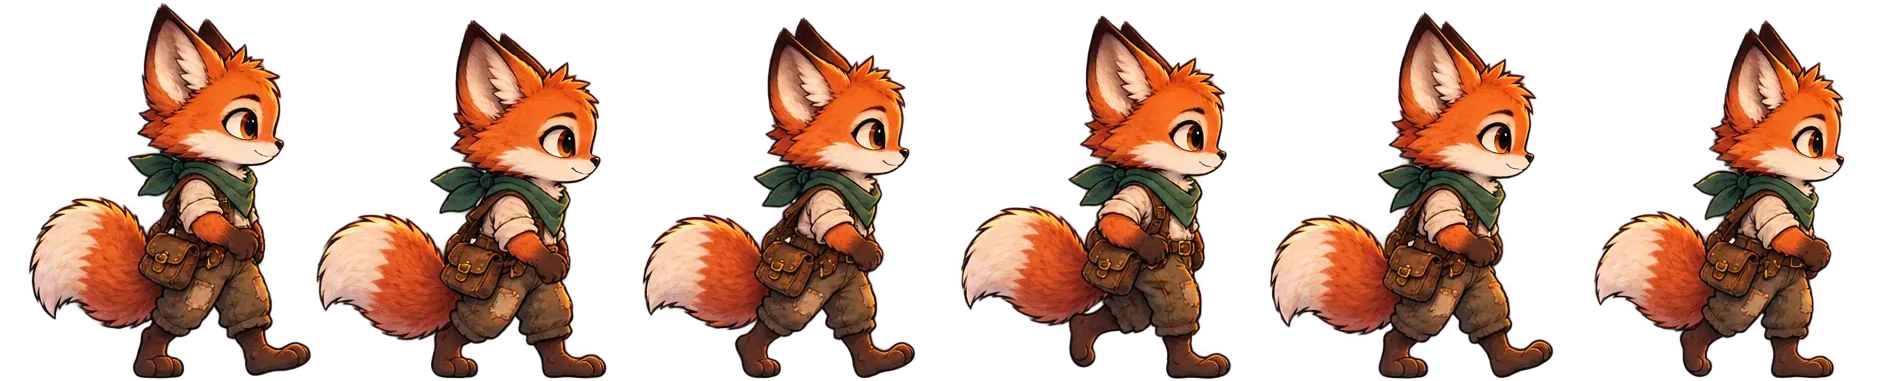
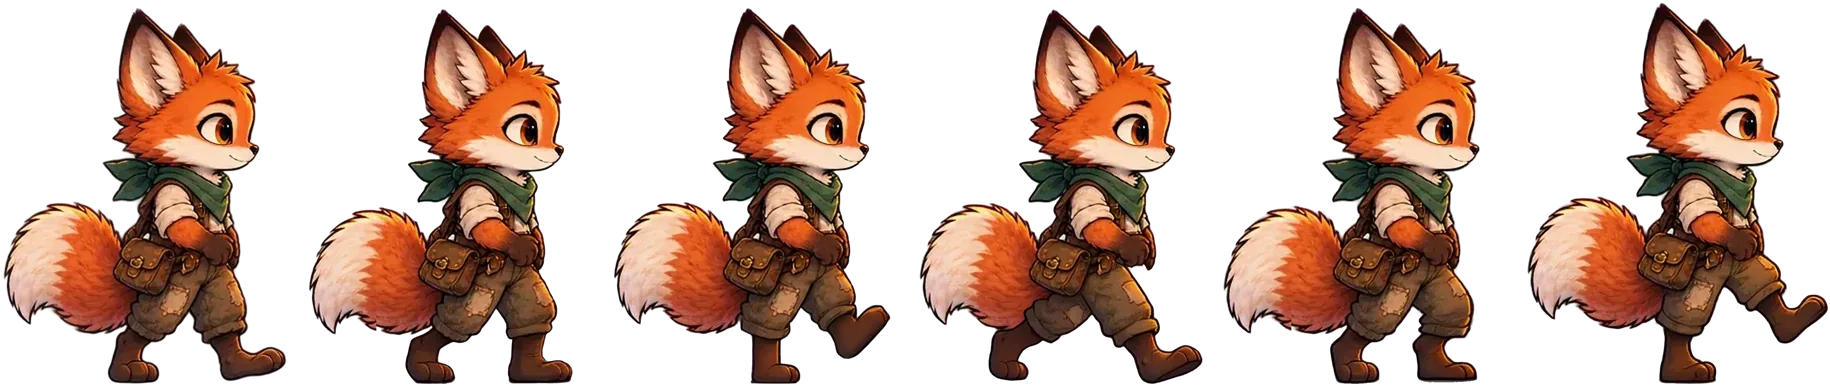
Rift of Reason: ravens and foxes walk without bobbing (#163, art slice D)
Rebuilt the raven-girl, raven-boy, fox-boy and fox-girl walk sheets from
their shipped art, by the slice A method: one shipped frame is the anchor,
the other five are qwen21_edit "change only its legs and feet/boots" edits,
and the two down frames swing the shawl, tail feathers or tail on the CPU
(swing_part.py). Measured on the built webp:

- head bob (head_track.py): 6.8/5.9/5.6/5.1 % -> 2.3/1.9/1.6/1.3 %,
  head scale 1.00 on every frame, head x drift <= 2 px
- centre drift (walk_audit.py): 3.8/3.1/10.5/10.4 px -> 0.7/0.7/1.1/1.4 px
- ground row within 1 px

- raven-girl anchors on shipped frame 3 (frame 1's shawl and head differ
  from the rest); the others keep frame 1.
- New tools/art-local/deshadow.py clears the soft ground shadow the edit
  paints under the feet; finish_walk.py --balance 1 nudges frames 2-6 by at
  most 1 px to hold the figure's centre.
- The new sources use "register": "grid": the build's usual centring on the
  upper 60 % follows a swinging fox tail and slid the head 3-4 px.
- New sources raven-walk-163.png and fox-walk-163.png; the old sources stay
  and are marked skip. Prompts, seeds and picks are in
  design/source-assets/1-avatars/walk-163-d-generation.json.
- Trailer leg rigs follow frame 1: fox-girl's shifts (-17, +2) px with its
  re-packed cell; raven-girl's rig and test landmarks are refitted to the
  new frame 1.

diff --git a/AOK/Mathematics/Rift of Reason/data/assets.js b/AOK/Mathematics/Rift of Reason/data/assets.js
@@ -24,7 +24,7 @@
         'avatar/fox-boy/solemn': { file: 'avatars/fox-boy-solemn.webp', w: 463, h: 620 },
         'avatar/fox-boy/surprised': { file: 'avatars/fox-boy-surprised.webp', w: 194, h: 240 },
         'avatar/fox-boy/waking': { file: 'avatars/fox-boy-waking.webp', w: 629, h: 620 },
-        'avatar/fox-boy/walk': { file: 'avatars/fox-boy-walk.webp', w: 1884, h: 381, frames: 6, frameWidth: 314, frameHeight: 381 },
+        'avatar/fox-boy/walk': { file: 'avatars/fox-boy-walk.webp', w: 1830, h: 386, frames: 6, frameWidth: 305, frameHeight: 386 },
         'avatar/fox-boy/worried': { file: 'avatars/fox-boy-worried.webp', w: 214, h: 240 },
         'avatar/fox-girl/asleep': { file: 'avatars/fox-girl-asleep.webp', w: 616, h: 620 },
         'avatar/fox-girl/happy': { file: 'avatars/fox-girl-happy.webp', w: 193, h: 240 },
@@ -34,7 +34,7 @@
         'avatar/fox-girl/solemn': { file: 'avatars/fox-girl-solemn.webp', w: 475, h: 620 },
         'avatar/fox-girl/surprised': { file: 'avatars/fox-girl-surprised.webp', w: 189, h: 240 },
         'avatar/fox-girl/waking': { file: 'avatars/fox-girl-waking.webp', w: 594, h: 620 },
-        'avatar/fox-girl/walk': { file: 'avatars/fox-girl-walk.webp', w: 1920, h: 379, frames: 6, frameWidth: 320, frameHeight: 379 },
+        'avatar/fox-girl/walk': { file: 'avatars/fox-girl-walk.webp', w: 1824, h: 381, frames: 6, frameWidth: 304, frameHeight: 381 },
         'avatar/fox-girl/worried': { file: 'avatars/fox-girl-worried.webp', w: 202, h: 240 },
         'avatar/frogling-boy/asleep': { file: 'avatars/frogling-boy-asleep.webp', w: 737, h: 620 },
         'avatar/frogling-boy/happy': { file: 'avatars/frogling-boy-happy.webp', w: 230, h: 240 },
@@ -104,7 +104,7 @@
         'avatar/raven-boy/solemn': { file: 'avatars/raven-boy-solemn.webp', w: 414, h: 620 },
         'avatar/raven-boy/surprised': { file: 'avatars/raven-boy-surprised.webp', w: 211, h: 240 },
         'avatar/raven-boy/waking': { file: 'avatars/raven-boy-waking.webp', w: 671, h: 620 },
-        'avatar/raven-boy/walk': { file: 'avatars/raven-boy-walk.webp', w: 1596, h: 376, frames: 6, frameWidth: 266, frameHeight: 376 },
+        'avatar/raven-boy/walk': { file: 'avatars/raven-boy-walk.webp', w: 1536, h: 377, frames: 6, frameWidth: 256, frameHeight: 377 },
         'avatar/raven-boy/worried': { file: 'avatars/raven-boy-worried.webp', w: 196, h: 240 },
         'avatar/raven-girl/asleep': { file: 'avatars/raven-girl-asleep.webp', w: 737, h: 609 },
         'avatar/raven-girl/happy': { file: 'avatars/raven-girl-happy.webp', w: 206, h: 240 },
@@ -114,7 +114,7 @@
         'avatar/raven-girl/solemn': { file: 'avatars/raven-girl-solemn.webp', w: 443, h: 620 },
         'avatar/raven-girl/surprised': { file: 'avatars/raven-girl-surprised.webp', w: 213, h: 240 },
         'avatar/raven-girl/waking': { file: 'avatars/raven-girl-waking.webp', w: 638, h: 620 },
-        'avatar/raven-girl/walk': { file: 'avatars/raven-girl-walk.webp', w: 1566, h: 369, frames: 6, frameWidth: 261, frameHeight: 369 },
+        'avatar/raven-girl/walk': { file: 'avatars/raven-girl-walk.webp', w: 1434, h: 360, frames: 6, frameWidth: 239, frameHeight: 360 },
         'avatar/raven-girl/worried': { file: 'avatars/raven-girl-worried.webp', w: 211, h: 240 },
         'creature/altmanta/angry': { file: 'creatures/altmanta-angry.webp', w: 272, h: 214 },
         'creature/altmanta/attack': { file: 'creatures/altmanta-attack.webp', w: 409, h: 303 },

diff --git a/AOK/Mathematics/Rift of Reason/js/ui/trailer-scenes.js b/AOK/Mathematics/Rift of Reason/js/ui/trailer-scenes.js
@@ -248,16 +248,16 @@
     // Coordinates are in each sheet's first cell; the upper body stays intact.
     const walkRigs = {
         'avatar/fox-girl': { stride: 74, lift: 16, legs: [
-            { hip: [199, 304], ankle: [161, 349], sole: 376, split: 349, mask: [[164, 296], [219, 309], [214, 325], [185, 344], [197, 379], [130, 379], [133, 355], [145, 327], [151, 327]] },
-            { hip: [244, 308], ankle: [257, 348], sole: 376, split: 348, mask: [[220, 301], [270, 305], [278, 343], [294, 345], [320, 345], [320, 379], [242, 379], [234, 340], [222, 324]] },
+            { hip: [182, 306], ankle: [144, 351], sole: 378, split: 351, mask: [[147, 298], [202, 311], [197, 327], [168, 346], [180, 381], [113, 381], [116, 357], [128, 329], [134, 329]] },
+            { hip: [227, 310], ankle: [240, 350], sole: 378, split: 350, mask: [[203, 303], [253, 307], [261, 345], [277, 347], [303, 347], [303, 381], [225, 381], [217, 342], [205, 326]] },
         ] },
         'avatar/frogling-boy': { stride: 80, lift: 17, legs: [
             { hip: [100, 246], ankle: [65, 289], sole: 323, split: 289, mask: [[43, 242], [126, 252], [106, 269], [96, 285], [104, 325], [21, 325], [23, 291], [35, 265]] },
             { hip: [151, 247], ankle: [162, 291], sole: 320, split: 291, mask: [[128, 245], [192, 245], [192, 278], [224, 278], [241, 291], [241, 325], [141, 325], [137, 288], [131, 263]] },
         ] },
         'avatar/raven-girl': { stride: 66, lift: 12, legs: [
-            { hip: [102, 315], ankle: [91, 347], sole: 367, split: 347, mask: [[91, 313], [113, 313], [108, 335], [140, 339], [141, 369], [53, 369], [52, 339], [80, 334]] },
-            { hip: [174, 313], ankle: [192, 342], sole: 361, split: 342, mask: [[166, 312], [188, 311], [203, 324], [222, 322], [242, 322], [254, 333], [256, 363], [165, 365], [168, 347], [173, 333]] },
+            { hip: [86, 312], ankle: [84, 334], sole: 354, split: 334, mask: [[73, 308], [98, 308], [100, 320], [112, 326], [113, 360], [52, 360], [53, 321], [70, 318]] },
+            { hip: [160, 306], ankle: [184, 328], sole: 357, split: 328, mask: [[146, 302], [172, 302], [184, 312], [196, 311], [230, 311], [232, 344], [212, 346], [176, 349], [176, 360], [146, 360]] },
         ] },
         'avatar/owlet-boy': { stride: 58, lift: 11, legs: [
             { hip: [130, 306], ankle: [120, 332], sole: 352, split: 332, mask: [[117, 304], [141, 305], [138, 319], [138, 323], [157, 324], [172, 333], [172, 354], [87, 354], [87, 324], [112, 320]] },

diff --git a/AOK/Mathematics/Rift of Reason/tools/art-local/finish_walk.py b/AOK/Mathematics/Rift of Reason/tools/art-local/finish_walk.py
@@ -1,6 +1,6 @@
 """Turn the anchor frame + 5 edits into a 6-frame walk sheet in the shipped format, and measure it.
 
-Usage: python3 -I finish_walk.py --base <input.png> --out <dir> --name <sheet> [--reg 0:0.40] [--margin 4]
+Usage: python3 -I finish_walk.py --base <input.png> --out <dir> --name <sheet> [--reg 0:0.40] [--margin 4] [--balance 1]
                                  <frame2.png> ... <frame6.png>
 <input.png> is the padded, enlarged anchor frame from prep_walk_frame.py; its .json sidecar gives the
 geometry. Frame 1 of the sheet is the anchor itself; the edits are the other frames in cycle order.
@@ -11,6 +11,10 @@ geometry. Frame 1 of the sheet is the anchor itself; the edits are the other fra
   figure, by default its top 40 %; use e.g. --reg 0.25:0.60 to skip swinging antennae), then shifted
   vertically so its lowest foot sits on the anchor's ground row. What remains of the head's movement
   is the bob, which is printed.
+- --balance PX (optional) then shifts frames 2-6 sideways by whole pixels, at most PX each, so the range of the
+  whole figure's centre (walk_audit.py's "centre drift") is as small as it can be; frame 1 never moves. Use it
+  with pack_source.py --grid and "register": "grid", so the build keeps these positions (a swinging tail
+  otherwise moves the build's centring and slides the head).
 - The cell is the shipped cell, widened (never narrowed) to fit every frame with --margin px to spare,
   keeping the figure's horizontal place. The build re-packs frames anyway; the sheet is for measuring.
 Writes <out>/<sheet>.png (6 cells), <out>/frames/frame_N.png and <out>/report.json.
@@ -26,6 +30,7 @@ ap.add_argument('--out', required=True)
 ap.add_argument('--name', required=True)
 ap.add_argument('--reg', default='0:0.40')
 ap.add_argument('--margin', type=int, default=4)
+ap.add_argument('--balance', type=int, default=0)
 ap.add_argument('edits', nargs='+')
 A = ap.parse_args()
 geo = json.load(open(A.base.rsplit('.', 1)[0] + '.json'))
@@ -112,6 +117,20 @@ for i, f in enumerate(frames):
     placed.append(g)
     report.append(dict(frame=i + 1, src=os.path.basename(([A.base] + A.edits)[i]), head_shift=[dx, dy], bob=-drop,
                        specks_dropped=loaded[i][1]))
+if A.balance:
+    import itertools
+    def cx_of(g):
+        xs = np.nonzero(np.array(g)[:, :, 3] > 24)[1]
+        return float(xs.mean())
+    cxs = [cx_of(g) for g in placed]
+    rng = range(-A.balance, A.balance + 1)
+    best = min(itertools.product(rng, repeat=len(placed) - 1),
+               key=lambda d: (max(c + s for c, s in zip(cxs, (0,) + d)) - min(c + s for c, s in zip(cxs, (0,) + d)),
+                              sum(abs(s) for s in d)))
+    for i, s in enumerate((0,) + best):
+        if s:
+            g = Image.new('RGBA', placed[i].size, (0, 0, 0, 0)); g.paste(placed[i], (s, 0)); placed[i] = g
+        report[i]['balance_dx'] = s
 # cell: the shipped cell, widened symmetrically / heightened upward until every frame fits with a margin
 boxes = [g.getchannel('A').point(lambda v: 255 if v > 24 else 0).getbbox() for g in placed]
 x0 = min(OFF[0], min(b[0] for b in boxes) - A.margin)

diff --git a/AOK/Mathematics/Rift of Reason/tools/art-local/deshadow.py b/AOK/Mathematics/Rift of Reason/tools/art-local/deshadow.py
@@ -1,0 +1,38 @@
+"""Clear the soft ground shadow an edit paints under the feet, before finish_walk.py.
+
+Usage: python3 -I deshadow.py <edit.png> <out.png> [--like <prep.png>] [--band 0.12] [--soft 160] [--near 3]
+qwen21_edit often adds a faint cast shadow under the feet even when the prompt says "no shadow". It sits
+below and beside the soles at low alpha, so finish_walk.py's alpha <= 12 snap keeps most of it, and on the
+map it reads as a grey smear that moves from frame to frame.
+- --like resizes the edit to the prep frame's canvas first (the edit comes back at another size), so the
+  coordinates of a later swing_part.py step are the prep frame's.
+- In the lowest --band of the figure (by its alpha box), every pixel with alpha < --soft that lies more than
+  --near px from a solid pixel (alpha >= 240) is cleared. Soft edges that hug the feet stay; the shadow goes.
+Nothing above the band is touched. Prints the cleared pixel count.
+"""
+import argparse
+import numpy as np
+from PIL import Image, ImageFilter
+
+ap = argparse.ArgumentParser()
+ap.add_argument('src'); ap.add_argument('out')
+ap.add_argument('--like'); ap.add_argument('--band', type=float, default=0.12)
+ap.add_argument('--soft', type=int, default=160); ap.add_argument('--near', type=int, default=3)
+A = ap.parse_args()
+im = Image.open(A.src).convert('RGBA')
+if A.like:
+    size = Image.open(A.like).size
+    if im.size != size:
+        im = im.resize(size, Image.LANCZOS)
+a = np.array(im)
+al = a[:, :, 3]
+ys = np.nonzero((al > 24).any(1))[0]
+top, bot = ys.min(), ys.max()
+y0 = int(bot - (bot - top) * A.band)
+solid = Image.fromarray(((al >= 240) * 255).astype(np.uint8)).filter(ImageFilter.MaxFilter(2 * A.near + 1))
+near = np.array(solid) > 0
+clear = (al < A.soft) & (al > 0) & ~near
+clear[:y0] = False
+a[clear] = 0
+Image.fromarray(a).save(A.out)
+print(A.out, 'cleared', int(clear.sum()), 'px below y', y0)

diff --git a/AOK/Mathematics/Rift of Reason/tools/art-local/README.md b/AOK/Mathematics/Rift of Reason/tools/art-local/README.md
@@ -18,12 +18,18 @@ registered to the pixel. Then a Pillow finish puts each frame's lowest foot on t
 | Script | What it does | Inputs → outputs |
 |---|---|---|
 | `prep_walk_frame.py` | Cuts one frame out of a shipped walk sheet, pads it (1.3 × width, 1.12 × height) and enlarges it 3 × as the edit input. | `<sheet.webp> <frame 1-6> <out.png> [--k 3]` → `out.png` + `out.json` (cell, pad, offset, k) |
-| `finish_walk.py` | Turns the anchor + 5 edited frames into a 6-frame sheet: resizes each edit back to the shipped pixel size, snaps alpha ≤ 12 to 0, drops loose specks, registers each frame to the anchor on the head (translation only), then drops it so the lowest foot sits on the anchor's ground row. Widens the cell if the stride needs it. | `--base <prep png> --out <dir> --name <sheet> [--reg 0:0.40] edit2.png … edit6.png` → `<sheet>.png`, `frames/frame_N.png`, `report.json` |
+| `finish_walk.py` | Turns the anchor + 5 edited frames into a 6-frame sheet (`--balance 1`: see big tails below): resizes each edit back to the shipped pixel size, snaps alpha ≤ 12 to 0, drops loose specks, registers each frame to the anchor on the head (translation only), then drops it so the lowest foot sits on the anchor's ground row. Widens the cell if the stride needs it. | `--base <prep png> --out <dir> --name <sheet> [--reg 0:0.40] edit2.png … edit6.png` → `<sheet>.png`, `frames/frame_N.png`, `report.json` |
+| `deshadow.py` | Clears the soft ground shadow a leg edit paints under the feet (it survives the alpha ≤ 12 snap and smears on the map): in the lowest 12 % of the figure, pixels with alpha < 160 more than 3 px from a solid pixel go. `--like` first resizes the edit to the prep frame's canvas, so later `swing_part.py` boxes use prep coordinates. A dark **line** under the feet is opaque and stays: drop that render instead. | `<edit.png> <out.png> [--like prep.png] [--band 0.12] [--soft 160] [--near 3]` |
 | `swing_part.py` | Swings one loose part (scarf ends, cape hem, antennae) a few degrees from its root on the CPU: the shipped pixels are sheared, ramped in smoothly from a cut line, never redrawn. Use it where a "change only the scarf" edit redraws the part (it did on #163). `--fade top:PX` bends cloth that carries on past the box; `--protect` keeps a wing tip or foot out of the part. | `<in.png> <out.png> --cut x:X\|y:Y --angle DEG --box X0,Y0,X1,Y1 [--ramp PX] [--fade EDGE:PX] [--protect X0,Y0,X1,Y1] [--hue LO:HI …] [--debug dbg.png]` |
 | `pack_source.py` | Lays one or more finished rows out as a source PNG that `build-assets.mjs` slices with `"type": "walk"` (6 separate figures per row on one ground line). | `<out.png> <row-1 frames dir> [<row-2 frames dir>] [--gap 48]` |
 | `head_track.py` | Measures the head through a walk cycle: scale and position of each frame's head against a reference frame, then the bob (range of head y) in px and % of figure height. **The acceptance measure for walk sheets.** | `<sheet> [frames] [--ref 2] [--band 0:0.40] [--ds 2]` → printed lines |
 | `walk_audit.py` | Audits every avatar walk sheet: height spread, ground spread, centre drift, edge contact, stray blobs, plus one panel per sheet. | `<assets/avatars dir> <out dir>` → `walk-metrics.json`, `walk-<sheet>.png` |
 | `walk_compare.py` | Before/after evidence for one sheet: a panel at 300 px and 70 px on split night/parchment (and on the map) with the measurements, and a side-by-side GIF at the map's 160 ms per frame. | `<before> <after> <out prefix> [--map scene.webp] [--band 0:0.40]` → `-panel.png`, `.gif` |
+
+**Big tails (foxes, #163 slice D): use the grid.** The build centres each walk frame on the middle of its upper 60 %,
+and a fox tail sits in that band, so swinging it slid the head 3–4 px. Run `finish_walk.py --balance 1` (frames 2–6
+move at most 1 px so the whole figure's centre stays within 2 px; frame 1 stays put), pack with
+`pack_source.py --grid`, and give the sheet `"register": "grid"` in `sheets.json`, as the raven and fox walk sheets do.
 
 `--reg` / `--band` choose which slice of the figure's height counts as "the head". The default (top 40 %)
 suits owlets, frogs, foxes and ravens. Mothkins' tall antennae swing, so use `--reg 0.25:0.60` and
@@ -45,7 +51,8 @@ python3 -I tools/art-local/walk_compare.py <old webp> assets/avatars/owlet-girl-
 ```
 
 The prompts, seeds and picks for the #163 rebuild are in
-`design/source-assets/1-avatars/walk-163-generation.json`.
+`design/source-assets/1-avatars/walk-163-generation.json` (owlets, mothkins) and `walk-163-d-generation.json`
+(ravens, foxes).
 
 **Frame 1 is load-bearing.** The map shows walk frame 1 whenever the avatar stands still, and the trailer's
 "heroes" scene cuts the legs out of frame 1 of five sheets (fox-girl, frogling-boy, raven-girl, owlet-boy,
